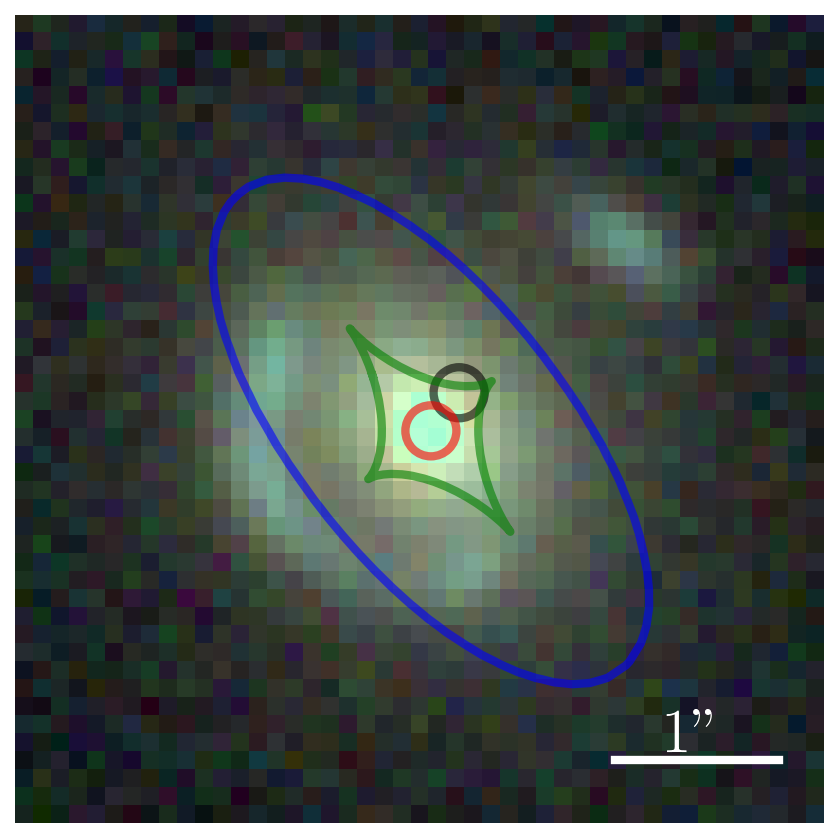
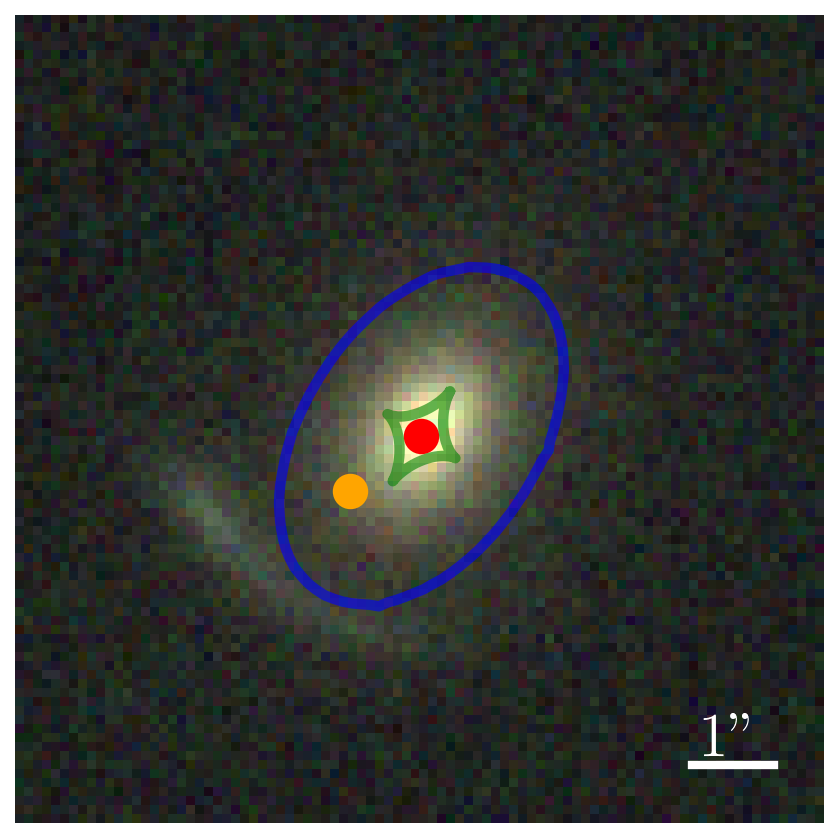
make source and lens positions more clear

diff --git a/mejiro/plots/overplot.py b/mejiro/plots/overplot.py
@@ -10,16 +10,14 @@ def text_boxes(ax, text_list, alpha=0.5):
                   verticalalignment='top', bbox=props)
 
 
-def source_position(ax, lens, coords, linewidth=2, alpha=1, color='y'):
+def source_position(ax, lens, coords, alpha=1, color='y', size=100):
     source_x, source_y = lens.get_source_pixel_coords(coords)
-    return ax.scatter(source_x, source_y, edgecolor=color, facecolor='none', s=150, label='Source position',
-                      linewidth=linewidth, alpha=alpha)
+    return ax.plot(source_x, source_y, marker='o', color=color, markersize=size, label='Source position', alpha=alpha)
 
 
-def lens_position(ax, lens, coords, linewidth=2, alpha=1, color='r'):
+def lens_position(ax, lens, coords, alpha=1, color='r', size=100):
     lens_x, lens_y = lens.get_lens_pixel_coords(coords)
-    return ax.scatter(lens_x, lens_y, edgecolor=color, facecolor='none', s=150, label='Lens position',
-                      linewidth=linewidth, alpha=alpha)
+    return ax.plot(lens_x, lens_y, marker='o', color=color, markersize=size, label='Lens position', alpha=alpha)
 
 
 def caustics(ax, lens, coords, num_pix, delta_pix=0.11, linewidth=2, alpha=1, color='g'):
